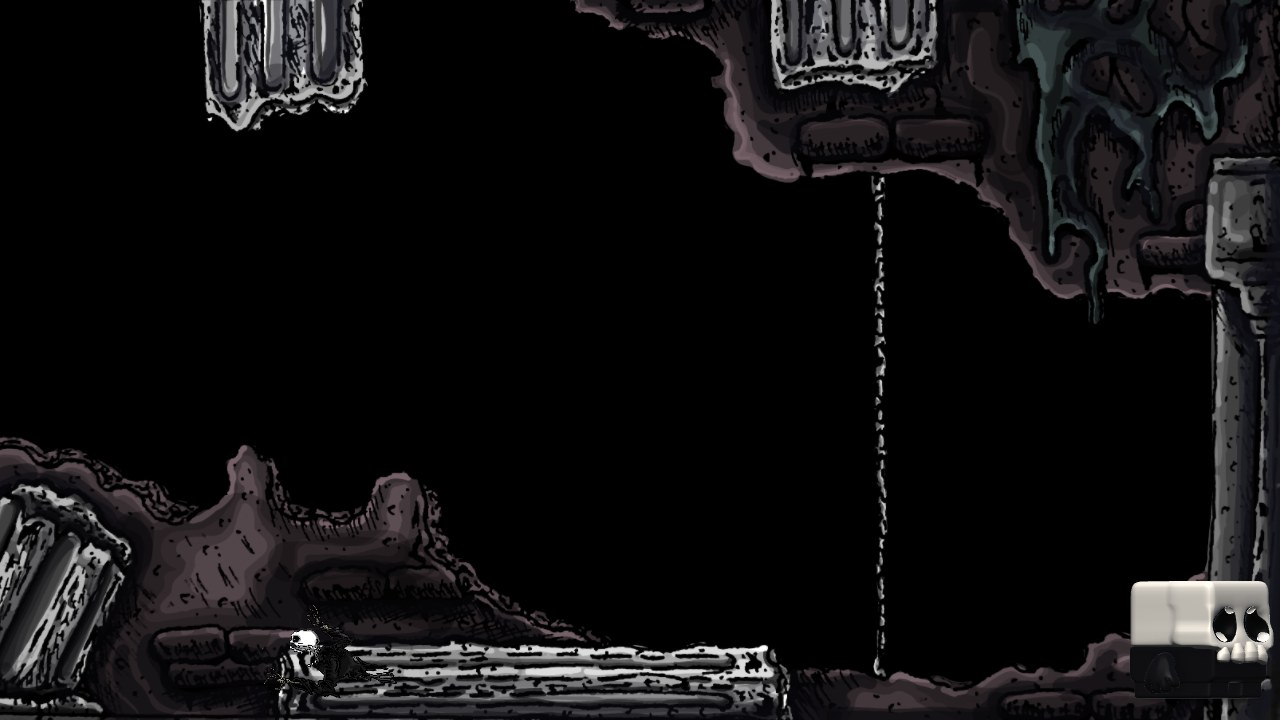
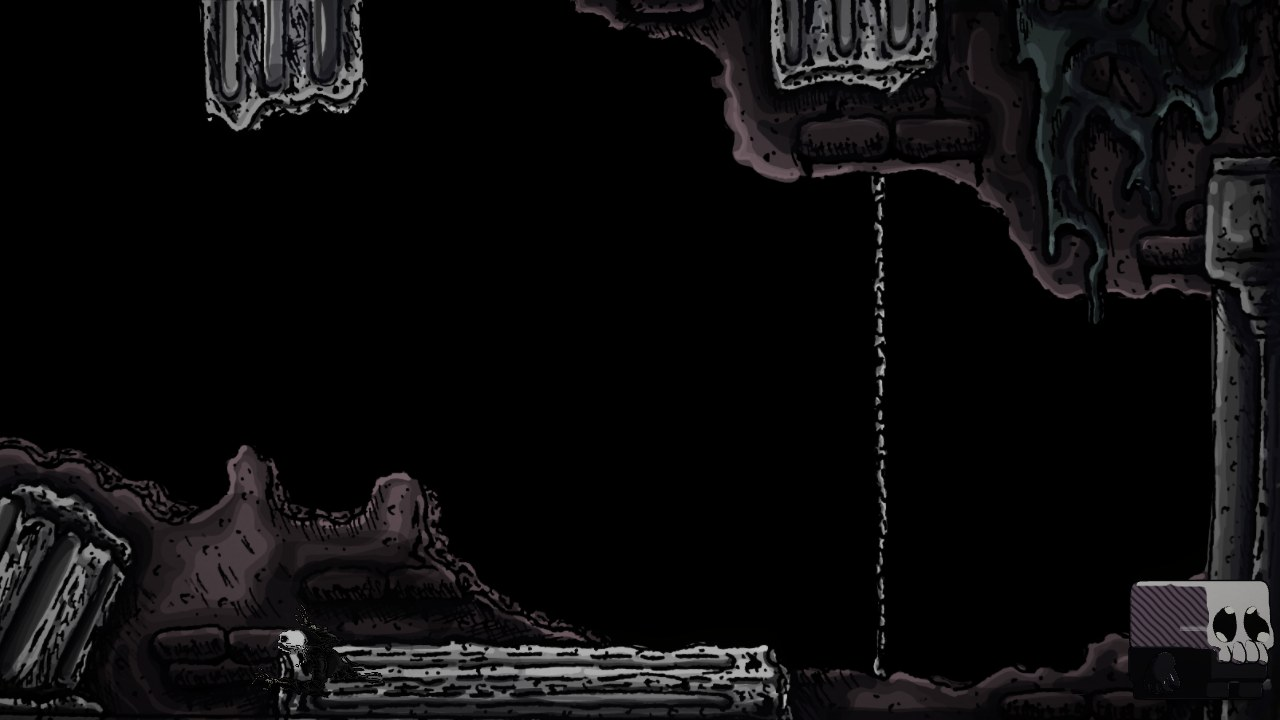
README: revision grafica (shader de tinta y post procesado) con capturas
- Secciones 6 y 7: que hace cada parte del shader de tinta, por que, y
  como ajustarlo desde los materiales; post procesado y gotas de tinta.
- Las capturas de la rama pasan al estado final. Murther de cerca en tres
  pasos (solo URP / bloque 4 / revision grafica) y mirando a los dos lados.
- Pendientes: se quita el de la tinta invisible (resuelto) y se agrega la
  raya clara del bisel del casco, que es del modelo.

diff --git a/README.md b/README.md
@@ -2,7 +2,7 @@
 
 Revisión técnica del prototipo de **Five Star Studio** sobre `main` (`0dea7b8`). Este README describe **solo los cambios de la rama `Correcciones-sugeridas`**. El reporte de avances del equipo está en [`Docs/ProyectoIntegrador_Avances_FiveStarStudio.pdf`](Docs/ProyectoIntegrador_Avances_FiveStarStudio.pdf).
 
-Todo se hizo y verificó en **Unity 6000.3.23f1**: compilación sin errores ni advertencias, pruebas automáticas en Play Mode (entrada, física de Murther, Build Settings y carga de escenas) y capturas desde las mismas vistas en las dos versiones. **Falta probarlo con un control físico, jugarlo de principio a fin a mano y compilar el ejecutable.** Cada commit corresponde a un bloque, así que cualquiera se puede revisar o revertir por separado.
+Todo se hizo y verificó en **Unity 6000.3.23f1**: compilación sin errores ni advertencias (C# y shaders), pruebas automáticas en Play Mode (entrada, física de Murther, Build Settings y carga de escenas) y capturas desde las mismas vistas en las dos versiones. **Falta probarlo con un control físico, jugarlo de principio a fin a mano y compilar el ejecutable.** Cada commit corresponde a un bloque, así que cualquiera se puede revisar o revertir por separado.
 
 | Commit | Bloque |
 |---|---|
@@ -10,7 +10,10 @@ Todo se hizo y verificó en **Unity 6000.3.23f1**: compilación sin errores ni a
 | `9350745` | 2. Herramientas de editor que regeneraban escenas solas |
 | `c92da21` | 3. Flujo y menú |
 | `e09f147` | 4. Ajustes visuales |
-| *(último)* | 5. Documentos en `Docs/` y este README |
+| `5568768` | 5. Documentos en `Docs/` y este README |
+| `e1c25bc` | 6. Revisión gráfica: shader de tinta para Murther |
+| `83d78d6` | 7. Revisión gráfica: post procesado y gotas de tinta |
+| *(último)* | README y capturas actualizados |
 
 ## Comparación con `main`
 
@@ -31,15 +34,16 @@ Capturas renderizadas en Unity, en Play Mode, a 1280×720, con el mismo recorrid
 
 En `main` los niveles se ven **negros** y Murther **magenta**: el proyecto no tenía asignado el render pipeline URP (bloque 1). El menú, que es solo interfaz, se ve igual en las dos versiones.
 
-Para separar ese error de los ajustes visuales, aquí está Murther de cerca **solo con URP asignado** y con los ajustes del bloque 4:
+Para separar ese error de los ajustes visuales, aquí está Murther de cerca en tres pasos: **solo con URP asignado**, con los ajustes del **bloque 4** (giro y luz) y con la **revisión gráfica** (bloques 6 y 7):
 
-| Solo con URP asignado | `Correcciones-sugeridas` |
-|---|---|
-| ![Murther quieto, solo URP](Docs/Comparacion/soloURP_murther_cerca.jpg) | ![Murther quieto, corregido](Docs/Comparacion/corregido_murther_cerca.jpg) |
-| ![Murther corriendo, solo URP](Docs/Comparacion/soloURP_murther_corriendo.jpg) | ![Murther corriendo, corregido](Docs/Comparacion/corregido_murther_corriendo.jpg) |
+| Solo con URP asignado | Bloque 4 | Bloques 6 y 7 (estado final) |
+|---|---|---|
+| ![Murther quieto, solo URP](Docs/Comparacion/soloURP_murther_cerca.jpg) | ![Murther quieto, bloque 4](Docs/Comparacion/bloque4_murther_cerca.jpg) | ![Murther quieto, final](Docs/Comparacion/corregido_murther_cerca.jpg) |
+| ![Murther corriendo, solo URP](Docs/Comparacion/soloURP_murther_corriendo.jpg) | ![Murther corriendo, bloque 4](Docs/Comparacion/bloque4_murther_corriendo.jpg) | ![Murther corriendo, final](Docs/Comparacion/corregido_murther_corriendo.jpg) |
 
 - **Cara:** de perfil estricto el casco de calavera es un rectángulo blanco. Girado 35° hacia la cámara se le ven los ojos y los dientes hacia los dos lados.
-- **Luz:** antes el casco se quemaba en blanco puro. Ahora tiene volumen: la cara, el costado y la parte de abajo se distinguen.
+- **Luz:** con URP/Lit el casco se quemaba en blanco puro; el bloque 4 le devolvió el volumen.
+- **Estilo:** con el shader de tinta Murther deja de verse como un modelo 3D "de plástico" pegado sobre un dibujo: tiene sombra malva con rayado como las columnas del fondo, contorno de tinta y brillos de tinta húmeda en el cuerpo.
 
 ## 1. Proyecto: render pipeline, entrada, Build Settings, nombre y `.gitignore`
 
@@ -99,12 +103,62 @@ Se perdían los cambios hechos a mano, y cada integrante podía subir versiones 
 
 **Para volver al perfil estricto:** en `Murther` → `MurtherController`, poner *Giro Hacia Camara* en 0.
 
+> El material del casco y la luz de este bloque los reemplazó después el shader de tinta (bloque 6), que tiene sus propios valores.
+
 ## 5. Documentos
 
 - `Readme.md` era una carpeta con el PDF de avances; ahora el PDF está en `Docs/`, para que `README.md` pueda ser un archivo (en macOS y Windows los dos nombres chocan).
 - El video `WhatsApp Video 2026-11-12 at 5.13.23 PM.mp4` de la raíz pasó a `Docs/Video_avance_2026-11-12.mp4`.
 
-## 6. Cómo probar
+## 6. Revisión gráfica: shader de tinta para Murther
+
+Los fondos están dibujados a mano con tinta: sombras planas en pocos tonos, rayado en las zonas oscuras y contornos negros. Murther usaba **URP/Lit**, un sombreado suave y realista que lo hacía ver como un modelo 3D pegado encima del dibujo. El nuevo shader **`Five Star/Murther Tinta`** (`Assets/Shaders/MurtherTinta.shader`) lo dibuja con las mismas reglas que el escenario.
+
+| Mirando a la derecha | Mirando a la izquierda |
+|---|---|
+| ![Murther con shader de tinta, derecha](Docs/Comparacion/tinta_derecha.jpg) | ![Murther con shader de tinta, izquierda](Docs/Comparacion/tinta_izquierda.jpg) |
+
+| Qué hace | Por qué |
+|---|---|
+| **Sombreado por bandas** (luz / sombra) con sombra **malva** | Como el sombreado posterizado del fondo. El malva sale de las sombras de los muros y rocas del escenario. |
+| **Trama de tinta** en la sombra y **trama cruzada** en la sombra profunda | Imita el rayado de las columnas. Las líneas viajan con Murther, no se quedan pegadas a la pantalla. Tienen un temblor leve de trazo a mano y 7 líneas por metro (≈13 px entre líneas en 1080p): más densas producían moiré. |
+| **Contorno negro** de grosor constante | El contorno de tinta de todo el dibujo. Se hace inflando una copia de la malla (casco invertido). |
+| **Borde de luz** y **brillo duro** en cuerpo y manos | El cuerpo es negro y se perdía contra las zonas negras del fondo. El brillo parece tinta húmeda. |
+| **Luz de personaje** que gira con Murther (`MurtherController` → *Luz Tinta*) | Con la luz fija del mundo no se puede tener la cara iluminada mirando a los dos lados: hacia uno de ellos quedaba en sombra. Ahora la cara siempre está en luz y el costado en sombra con trama. |
+| `NormalesSuavesContorno.cs` (Editor) | Al importar los FBX de `Assets/Murther/Modelos`, guarda normales promediadas en los tangentes. Con las normales originales el contorno se abría en las esquinas duras del cuerpo y los pies. **Los FBX no se modifican**: solo cambian los datos importados. |
+| Pases de sombra, profundidad y normales | Murther sigue apareciendo en el prepass de SSAO y puede proyectar sombra si se activa en la luz. |
+
+Los cuatro materiales de `Assets/Murther/Materiales` conservan su GUID: la escena no cambió de referencias. Además, `Murther_fullblack` tenía color de emisión pero no la palabra clave `_EMISSION`, así que el "brillo propio" del cuerpo **nunca se aplicaba**.
+
+**Cómo ajustarlo** (en cada material, sin tocar código):
+
+| Propiedad | Para qué |
+|---|---|
+| *Color de la sombra* | Tono de la parte en sombra (multiplica al color base). |
+| *Umbral luz / sombra* | Más alto = más superficie en sombra. |
+| *Trama → Intensidad, Líneas por metro, Grosor* | Cantidad y densidad del rayado. Intensidad 0 lo quita. |
+| *Borde de luz*, *Brillo duro* | Separación del cuerpo negro contra el fondo. |
+| *Contorno → Grosor* | En metros; 0 lo quita. |
+
+La dirección de la luz de personaje se ajusta en `Murther` → `MurtherController` → *Luz Tinta* (frente, arriba, hacia la cámara).
+
+## 7. Revisión gráfica: post procesado y gotas de tinta
+
+| Antes (bloque 4) | Después |
+|---|---|
+| ![Nivel 1 antes de la revisión gráfica](Docs/Comparacion/bloque4_4_nivel1_inicio.jpg) | ![Nivel 1 después de la revisión gráfica](Docs/Comparacion/corregido_4_nivel1_inicio.jpg) |
+
+| Cambio | Por qué |
+|---|---|
+| Perfil `Niveles_PostProcesado`: **viñeta** (0.3) y **grano** fino (0.18), con un *Volumen Global* en cada nivel | El grano cae igual sobre el dibujo y sobre Murther: los dos parecen impresos en la misma hoja. La viñeta oscurece las orillas como la sombra del menú. **Sin tonemapping ni corrección de color**, que cambiarían los colores del dibujo. |
+| Post procesado activado en las cámaras de los niveles | Estaba apagado: la cámara ignoraba cualquier Volume. |
+| **Reflejo de tinta húmeda** en las texturas de gota y mancha | Las gotas eran negras sobre las zonas negras del fondo y no se veían. |
+| `MurtherTinta` → *Color Tinta*: casi negro → blanco | Multiplicaba la textura y apagaba su borde y el reflejo; ahora el color sale de la textura. |
+| Luz del Nivel 1 un poco menos cálida | Con el shader nuevo solo ilumina a Murther, y teñía el casco de crema. |
+
+`Juego → Fase 1` crea todo esto igual (materiales, post procesado y texturas), así que volver a ejecutarlo no lo deshace.
+
+## 8. Cómo probar
 
 1. `git switch Correcciones-sugeridas` y abrir el proyecto con Unity 6000.3.23f1. **No** debe aparecer ningún diálogo ni regenerarse ninguna escena.
 2. Abrir **MenuPrincipal** y dar Play:
@@ -112,9 +166,9 @@ Se perdían los cambios hechos a mano, y cada integrante podía subir versiones 
    - Con flechas o control: navegar el menú, abrir **Créditos** y regresar con Esc/B, abrir **Cerrar Juego** y cancelar.
    - **Iniciar Juego** → cinemática (se salta con el botón, Esc, Start o B) → pantalla de carga → Nivel 1.
 3. En el **Nivel 1**: moverse con A/D, flechas o stick; saltar con Espacio, W o A del control; doble salto en el aire. Llegar a las dos orillas: Murther debe verse completo.
-4. Ajustar a gusto *Giro Hacia Camara* (`MurtherController`) y la luz (`Luz Direccional` y *Lighting → Environment* del Nivel 1).
+4. Ajustar a gusto *Giro Hacia Camara* y *Luz Tinta* (`MurtherController`), los materiales de `Assets/Murther/Materiales` y el perfil `Assets/Settings/Niveles_PostProcesado`.
 
-## 7. Pendientes para el equipo (no aplicados)
+## 9. Pendientes para el equipo (no aplicados)
 
 Son decisiones de contenido o de diseño, así que se dejaron como estaban:
 
@@ -124,7 +178,7 @@ Son decisiones de contenido o de diseño, así que se dejaron como estaban:
 - **Controles anunciados que no existen:** la pantalla de carga muestra *Ataque ligero/Interactuar* y *Recargar*, y `TextosJuego.Controles` menciona *Esquivar (Shift/J)* y *Atacar (K/X)*. El dash y el ataque están en el prototipo anterior (`PlayerController3D`), no en `MurtherController`.
 - **No hay pausa ni forma de volver al menú** desde un nivel.
 - **Prototipo anterior (`Assets/Assets/`, ~2400 líneas):** ninguna escena lo usa. Conviene decidir si se integra (vida, enemigos, flechas) o se borra.
+- **Raya clara en el costado del casco:** con el shader de tinta se ve una línea horizontal iluminada dentro de la sombra. Es un bisel del modelo que atrapa la luz; si no es intencional, se corrige en el modelo (Maya).
 - **Doble salto:** la cabeza sube 1.15 m y deja un hueco grande respecto al cuerpo. Si no es el efecto buscado, bajar *Altura Cabeza* en `MurtherController`.
-- **La tinta casi no se ve** sobre las zonas oscuras del fondo: es negra sobre negro. Un borde más claro o un tono azulado la harían legible.
 - `Juego → Fase 1` sigue creando el Animator Controller y los materiales con GUIDs nuevos cada vez que se ejecuta; solo debe usarse cuando haga falta rehacer a Murther.
 - `SampleScene.unity` sobra, y los paquetes `com.unity.ai.assistant` (pre) y `com.unity.pipeline` (experimental) son versiones de prueba.
